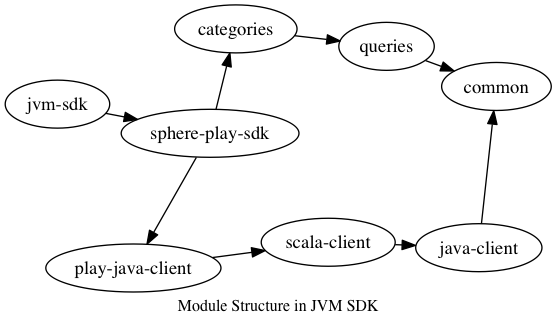
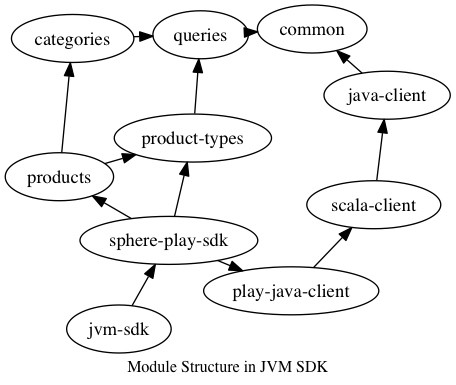
Add basic structure for products

diff --git a/products/src/main/java/io/sphere/sdk/products/ProductBuilder.java b/products/src/main/java/io/sphere/sdk/products/ProductBuilder.java
@@ -1,0 +1,31 @@
+package io.sphere.sdk.products;
+
+import io.sphere.sdk.models.DefaultModelFluentBuilder;
+import io.sphere.sdk.models.Reference;
+import io.sphere.sdk.producttypes.ProductType;
+
+public class ProductBuilder extends DefaultModelFluentBuilder<ProductBuilder, Product> {
+    private Reference<ProductType> productType;
+
+    public ProductBuilder(final Reference<ProductType> productType) {
+        this.productType = productType;
+    }
+
+    public static ProductBuilder of(final Reference<ProductType> productType) {
+        return new ProductBuilder(productType);
+    }
+
+    @Override
+    protected ProductBuilder getThis() {
+        return this;
+    }
+
+    @Override
+    public Product build() {
+        return new ProductImpl(id, version, createdAt, lastModifiedAt, productType);
+    }
+
+    public Reference<ProductType> getProductType() {
+        return productType;
+    }
+}

diff --git a/products/src/test/java/io/sphere/sdk/products/ProductImplTest.java b/products/src/test/java/io/sphere/sdk/products/ProductImplTest.java
@@ -1,0 +1,27 @@
+package io.sphere.sdk.products;
+
+import io.sphere.sdk.models.DefaultModelBuilder;
+import io.sphere.sdk.models.DefaultModelSubclassTest;
+import io.sphere.sdk.producttypes.ProductType;
+
+public class ProductImplTest extends DefaultModelSubclassTest<Product> {
+    @Override
+    public void toStringContainsSubclassAttributes() {
+        //TODO
+    }
+
+    @Override
+    protected DefaultModelBuilder<Product> newExample1Builder() {
+        return ProductBuilder.of(ProductType.reference("product-type-1"));
+    }
+
+    @Override
+    protected DefaultModelBuilder<Product> newExample2Builder() {
+        return ProductBuilder.of(ProductType.reference("product-type-2"));
+    }
+
+    @Override
+    public void testSubclassGetters() {
+        //TODO
+    }
+}

diff --git a/products/src/main/java/io/sphere/sdk/products/ProductImpl.java b/products/src/main/java/io/sphere/sdk/products/ProductImpl.java
@@ -1,0 +1,22 @@
+package io.sphere.sdk.products;
+
+import com.fasterxml.jackson.annotation.JsonCreator;
+import io.sphere.sdk.models.DefaultModelImpl;
+import io.sphere.sdk.models.Reference;
+import io.sphere.sdk.producttypes.ProductType;
+import org.joda.time.DateTime;
+
+public class ProductImpl extends DefaultModelImpl implements Product {
+    private final Reference<ProductType> productType;
+
+    @JsonCreator
+    ProductImpl(final String id, final long version, final DateTime createdAt, final DateTime lastModifiedAt, final Reference<ProductType> productType) {
+        super(id, version, createdAt, lastModifiedAt);
+        this.productType = productType;
+    }
+
+    @Override
+    public Reference<ProductType> getProductType() {
+        return productType;
+    }
+}

diff --git a/product-types/src/main/java/io/sphere/sdk/producttypes/ProductType.java b/product-types/src/main/java/io/sphere/sdk/producttypes/ProductType.java
@@ -2,6 +2,7 @@ package io.sphere.sdk.producttypes;
 
 import com.fasterxml.jackson.databind.annotation.JsonDeserialize;
 import io.sphere.sdk.models.DefaultModel;
+import io.sphere.sdk.models.Reference;
 import io.sphere.sdk.producttypes.attributes.AttributeDefinition;
 
 import java.util.List;
@@ -17,5 +18,9 @@ public interface ProductType extends DefaultModel {
 
     public static ProductTypeQuery query() {
         return new ProductTypeQuery();
+    }
+
+    public static Reference<ProductType> reference(final String id) {
+        return Reference.of("product-type", id);
     }
 }

diff --git a/products/src/main/java/io/sphere/sdk/products/Product.java b/products/src/main/java/io/sphere/sdk/products/Product.java
@@ -1,0 +1,11 @@
+package io.sphere.sdk.products;
+
+import com.fasterxml.jackson.databind.annotation.JsonDeserialize;
+import io.sphere.sdk.models.DefaultModel;
+import io.sphere.sdk.models.Reference;
+import io.sphere.sdk.producttypes.ProductType;
+
+@JsonDeserialize(as=ProductImpl.class)
+public interface Product extends DefaultModel {
+    Reference<ProductType> getProductType();
+}
